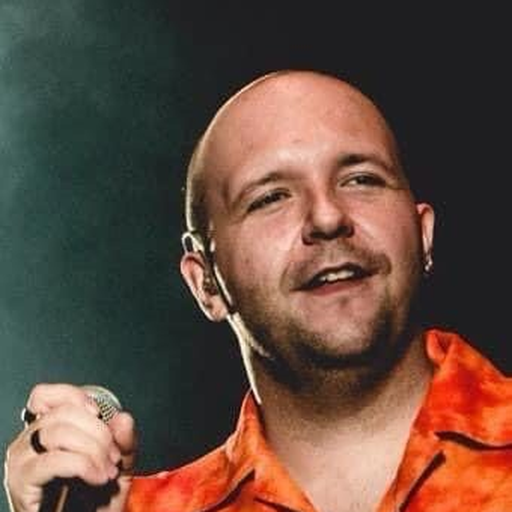
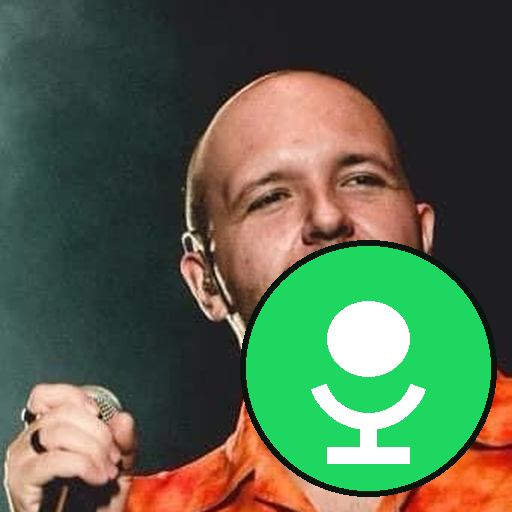
Cantor: icone = foto no palco + selo de microfone (identifica app de canto/letras)

Changed region(s): [[0.4688, 0.4688, 0.9688, 0.9688]]

diff --git a/index.html b/index.html
@@ -12,8 +12,8 @@
 <meta property="og:type" content="website" />
 <meta name="twitter:card" content="summary_large_image" />
 <link rel="manifest" href="manifest.webmanifest" />
-<link rel="apple-touch-icon" href="icon-192.png?v=12" />
-<link rel="icon" href="icon-192.png?v=12" />
+<link rel="apple-touch-icon" href="icon-192.png?v=13" />
+<link rel="icon" href="icon-192.png?v=13" />
 <meta name="apple-mobile-web-app-capable" content="yes" />
 <meta name="apple-mobile-web-app-status-bar-style" content="black-translucent" />
 <meta name="apple-mobile-web-app-title" content="Cantor" />
